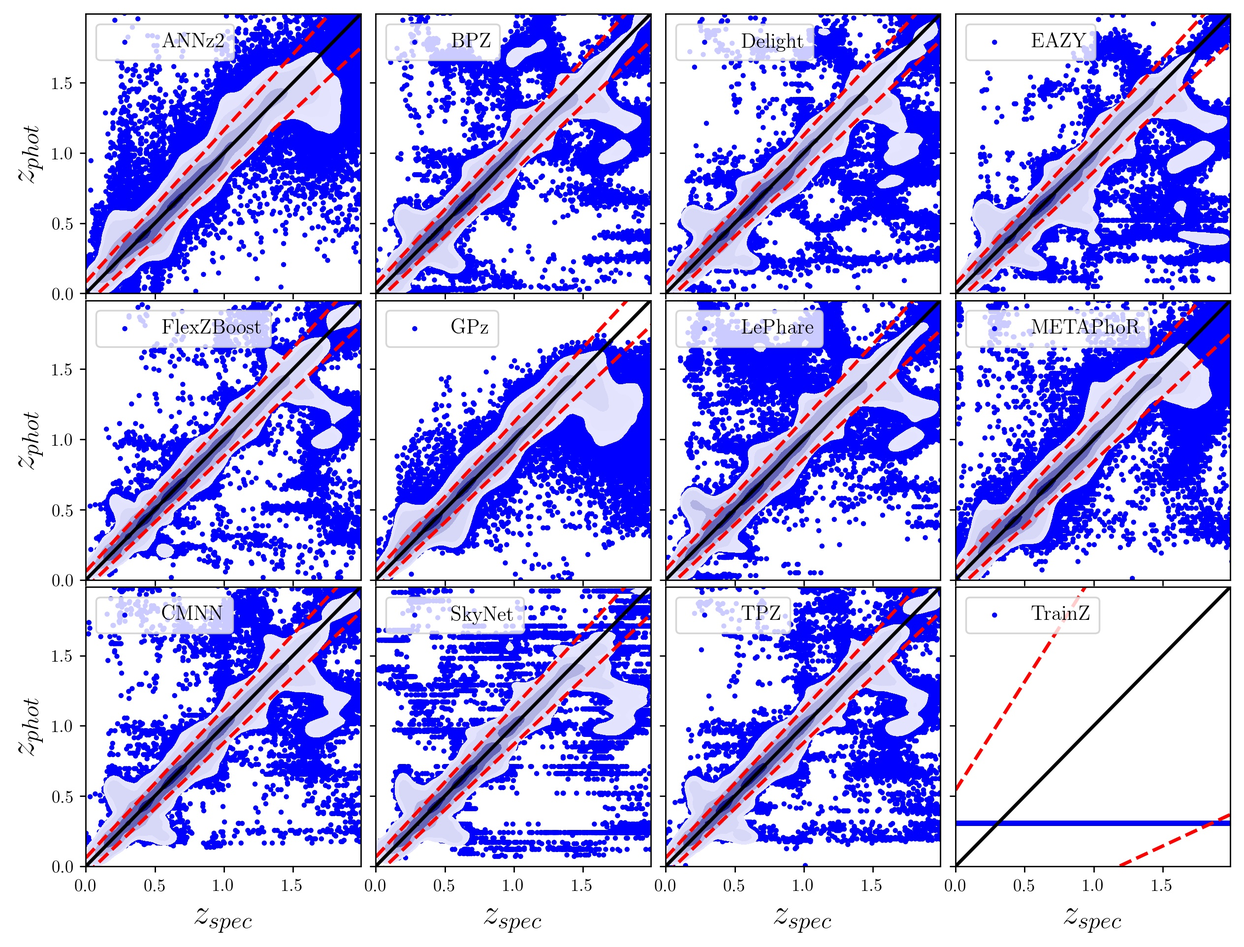
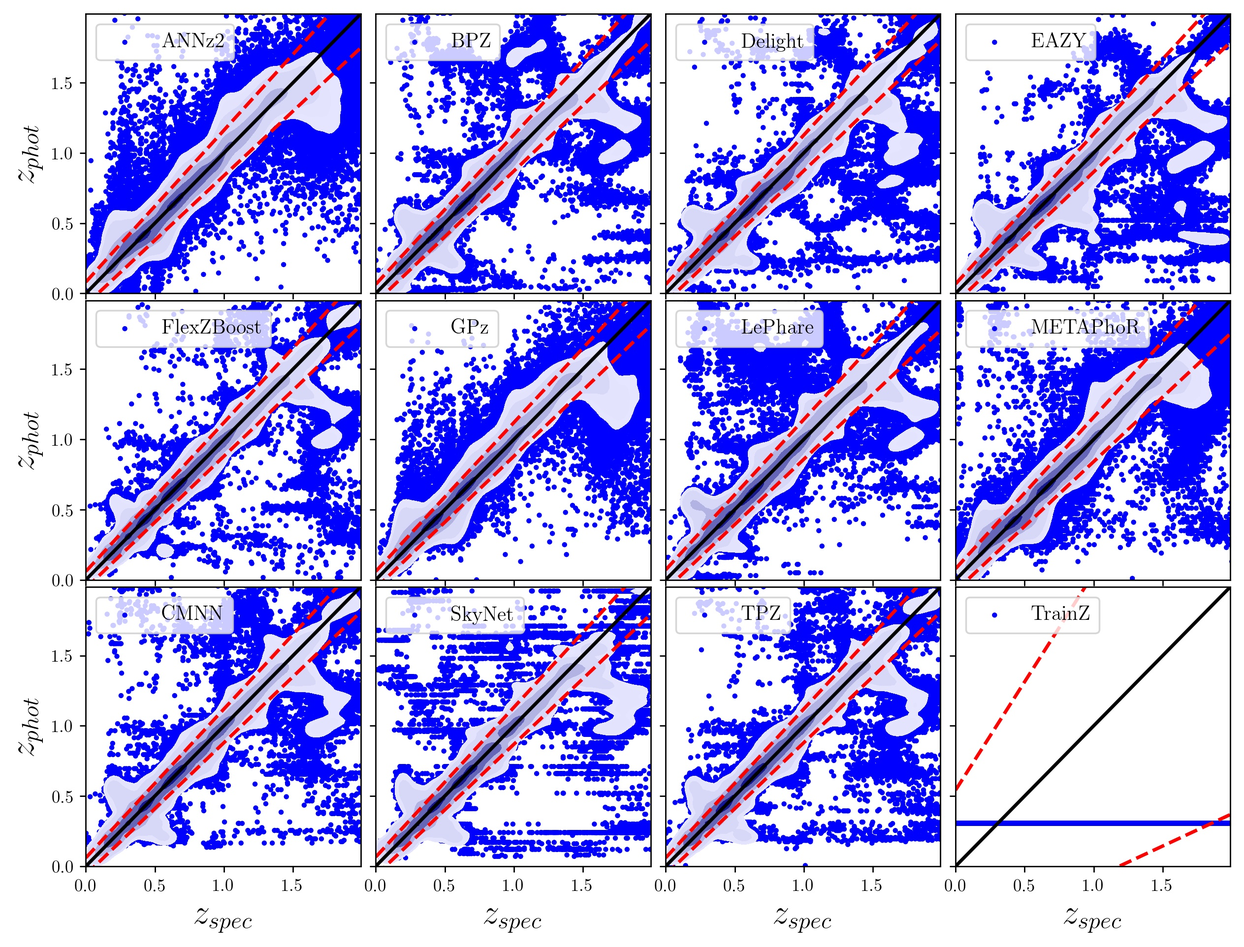
finished adding re-run of GPz with proper training

Changed region(s): [[0.2778, 0.3117, 0.5247, 0.6234]]

diff --git a/paper/tex/appendix.tex b/paper/tex/appendix.tex
@@ -69,7 +69,7 @@ Photo-z Code       & $\frac{\sigma_{IQR}}{(1+z)}$ & median  & \multicolumn{1}{|p
 \textsc{Delight}   & 0.0212  & -0.00185  & 0.038      & 0.0216  & -0.002158  & 0.038 \\
 \textsc{EAZY}      & 0.0225  & -0.00218  & 0.034      & 0.0226  & -0.003765  & 0.029 \\
 \textsc{FlexZBoost}& 0.0154  & -0.00027  & 0.020      & 0.0148  & -0.000211  & 0.017 \\
-\textsc{GPz}       & 0.0202  & -0.00091  & 0.036      & 0.0201  & -0.000950  & 0.037 \\
+\textsc{GPz}       & 0.0197  & -0.00000  & 0.052      & 0.0195  &  0.000113  & 0.051 \\
 \textsc{LePhare}   & 0.0236  & -0.00161  & 0.058      & 0.0239  & -0.002007  & 0.056 \\
 \textsc{METAPhoR}  & 0.0264  &  0.00000  & 0.037      & 0.0262  &  0.001333  & 0.048 \\
 \textsc{CMNN}        & 0.0184  & -0.00132  & 0.035      & 0.0170  & -0.001049  & 0.034 \\
